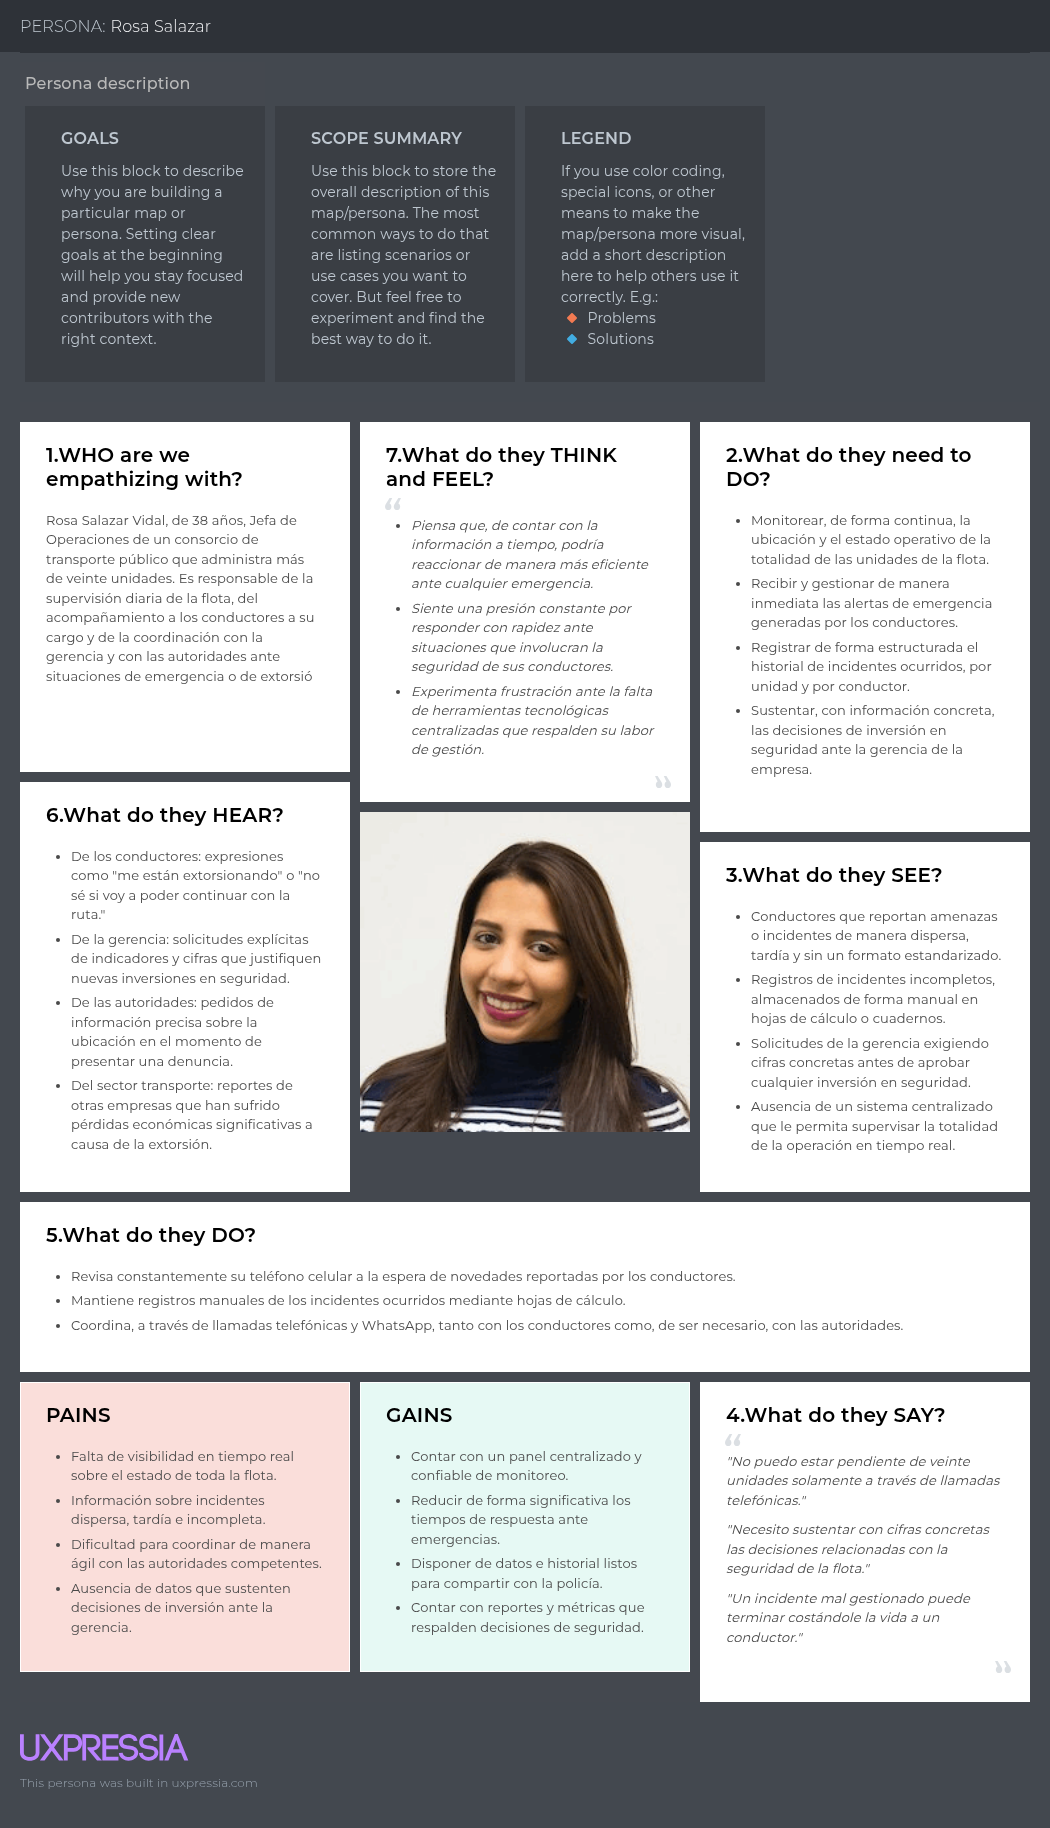
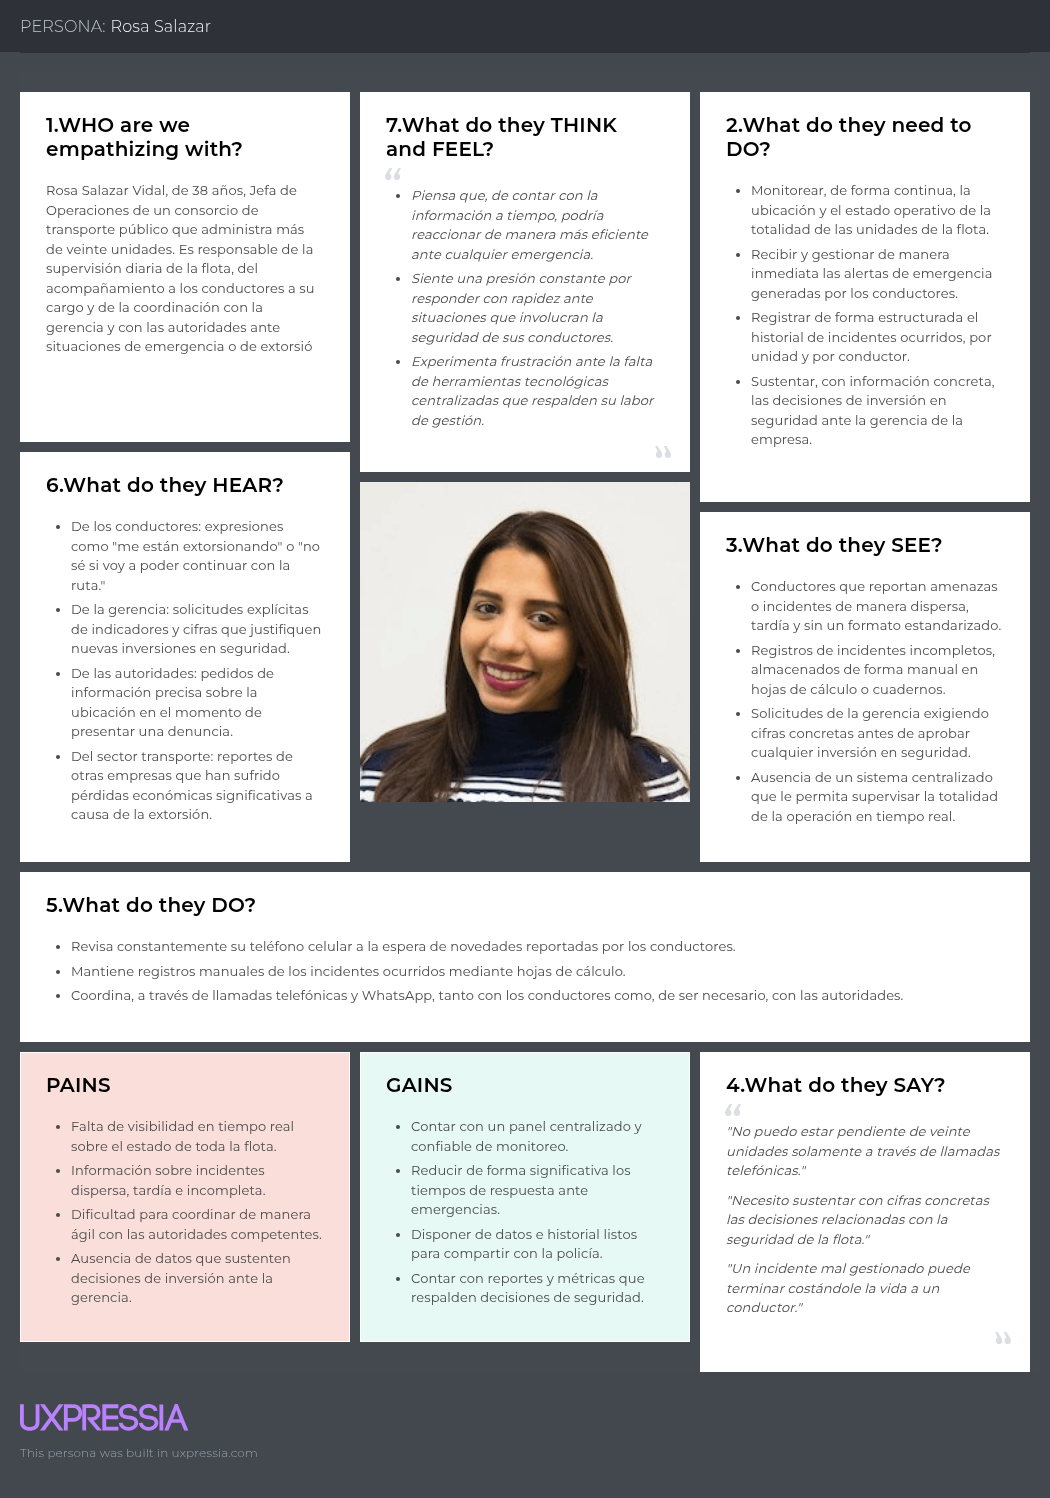
docs: add empathy map section

diff --git a/Capitulo_2.md b/Capitulo_2.md
@@ -360,6 +360,18 @@ En tercer lugar, la matriz muestra la oportunidad de integrar en un solo flujo d
 
 #### 2.3.4. Empathy Mapping
 
+A continuación se presentan los Empathy Maps correspondientes a cada uno de los dos User Personas definidos, elaborados a partir de la información recogida en la problemática, las entrevistas y los perfiles descritos previamente. Estas herramientas permiten profundizar en las percepciones, emociones y comportamientos de Carlos y Rosa frente a la inseguridad del transporte público, complementando así los hallazgos obtenidos mediante el Task Matrix y el Journey Mapping.
+
+**Empathy Map 1: Conductor de transporte público**<br><br>
+Identifica pensamientos, emociones y necesidades del conductor ante situaciones de riesgo durante su recorrido.<br>
+
+![Conductor de transporte público](/docs/assets/needfinding/empathy-map-1.png)
+
+**Empathy Map 2: Jefa de operaciones/Monitoreo de flota**<br><br>
+Refleja las preocupaciones, objetivos y frustraciones de la jefa de operaciones al gestionar la seguridad de la flota.<br>
+
+![Jefa de operaciones](/docs/assets/needfinding/empathy-map-2.png)
+
 ### 2.4. Big Picture EventStorming
 
 ### 2.5. Ubiquitous Language
